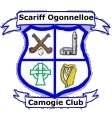
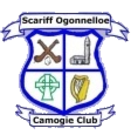
Making all font changes rem based (that aren't relative size values) - index and clubs html pages done. Some margin and padding when warrented.I'm also taking out or coupling together css.

diff --git a/assets/css/style.css b/assets/css/style.css
@@ -28,40 +28,41 @@ h1, h2, h3, h4, h5, h6 {
 header {
     background-color: rgb(255, 193, 37);
     display: flex;
-    justify-content: space-between
+    justify-content: space-between;
+    line-height: 4.68rem;
 }
 
-header a, footer a {
+header a, 
+footer a {
     text-decoration: none;
 }
 
-header a, a:visited, a:hover, a:active {
+header a, 
+a:visited, 
+a:hover, 
+a:active {
     color: inherit;
 }
 
 #logo {
     align-self: flex-start;
     font-family: Celtic;
-    font-size: 60px;
-    margin-left: 20px;
+    font-size: 3.75rem;
+    padding-left: 1.25rem;
 }
 
 /* navigation links */
 
 #menu {
     font-size: 110%;
-    letter-spacing: 4px;
-    margin-right: 20px;
+    letter-spacing: 0.25rem;
+    padding-right: 20px;
 }
 
 #menu li {
     list-style-type: none;
-    margin-right: 10px;
+    padding-right: 10px;
     display: inline-block;
-}
-
-#menu, #logo {
-    line-height: 75px;
 }
 
 #menu a:hover {
@@ -75,14 +76,14 @@ header a, a:visited, a:hover, a:active {
 /* hero image */
 
 #hero-outer {
-    height: 400px;
-    width: 100%;
+    min-height: 25rem;
+    max-width: 100%;
     overflow: hidden;
 }
 
 #hero-image {
-    height: 400px;
-    width: 100%;
+    min-height: 25rem;
+    max-width: 100%;
     background: url("../images/hero.jpg") no-repeat center;
     background-size: cover;
 }
@@ -99,46 +100,32 @@ header a, a:visited, a:hover, a:active {
     justify-content: center;
 }
 
-.newsletter-div h1 {
+.heading-1-body {
+    font-size: 2.5rem;
     text-align: center;
-    padding-top: 0.5em;
-}
-
-.newsletter-div p,
-.newsletter-div form {
-    padding: 1em;
-    text-align: center;
-    margin: auto;
-}
-
-#intro-heading {
-    font-size: 40px;
+    padding: 2rem 0;
 }
 
 #newsletter-signup {
+    padding: 2rem;
     text-align: center;
-    padding-bottom: 20px;
-}
-
-#newsletter-signup label {
-    font-size: larger;
+    margin: auto;
 }
 
 #newsletter-signup input {
     padding: 0.375rem 0.75rem;
     border-radius: 0.25rem;
-    transition: border-color .15s ease-in-out,box-shadow .15s ease-in-out;
     margin: 0;
     font-family: inherit;
-    font-size: x-large;
+    font-size: 1.5rem;
 }
 
 #newsletter-signup button {
-    font-size: x-large;
+    font-size: 1.5rem;
     border-radius: 5px;
     border: none;
     background-color: rgb(255, 193, 37);
-    padding: 10px;
+    padding: 0.6rem;
     margin: 0.5em;
 }
 
@@ -155,7 +142,6 @@ header a, a:visited, a:hover, a:active {
 #map-container {
     display: flex; 
     width: 100%; 
-    height: 100%; 
     flex-direction: column; 
     overflow: hidden;
 }
@@ -163,7 +149,7 @@ header a, a:visited, a:hover, a:active {
 #google-maps-homepage {
     margin: 0; 
     padding: 0;
-    min-height: 25em;
+    min-height: 25rem;
     border: none;
 }
 
@@ -175,7 +161,6 @@ header a, a:visited, a:hover, a:active {
 
 .center-of-container {
     width: 100%;
-    border-radius: 15px;
     align-self: center;
 }
 
@@ -187,13 +172,10 @@ header a, a:visited, a:hover, a:active {
 
 /* Clubs page */
 
-#training-title {
-    padding-top: 1em;
-}
-
-.training-card > * {
-    padding: 1em;
-    
+.heading-2-body {
+    font-size: 2rem;
+    text-align: center;
+    padding-bottom: 2rem;
 }
 
 .main-info-left {
@@ -214,7 +196,7 @@ header a, a:visited, a:hover, a:active {
 }
 
 .club-contact-list li {
-    padding: 0.5em 0;
+    padding: 0.4em 0;
 }
 
 .club-contact-list li a {
@@ -222,8 +204,23 @@ header a, a:visited, a:hover, a:active {
     color: inherit;
 }
 
-tr td:first-child {
-    padding-right: 30px;
+/* https://stackoverflow.com/questions/2573544/how-can-i-select-all-children-of-an-element-except-the-last-child/2573566 */
+.flex-item {
+    width: 50%;
+    margin: auto;
+    display: flex;
+    padding: 1em;
+    flex-direction: column;
+    align-items: center;
+    flex-wrap: wrap;
+}
+
+tbody tr:first-child {
+    text-decoration: underline;
+}
+
+tbody tr:not(:first-of-type) td:first-child {
+    padding-right: 1.8rem;
     font-style: italic;
 }
 
@@ -233,20 +230,8 @@ thead {
 
 .team-crest {
     margin: auto;
-    padding: 10px;
-    height: 135px;
 }
 
-.team-header {
-    padding: 1.2em;
-}
-
-.flex-item {
-    display: flex;
-    padding: 1em;
-    flex-direction: column;
-    justify-content: center;
-}
 
 .newsletter-div-clubs-page {
     background-color: #D2D5DD;
@@ -372,7 +357,10 @@ thead {
     display: inline;
 }
 
-footer a, a:visited, a:hover, a:active {
+footer a, 
+a:visited, 
+a:hover, 
+a:active {
     color: inherit;
 }
 
@@ -390,7 +378,7 @@ footer a, a:visited, a:hover, a:active {
 
 /* media queries */
 
-@media screen and (max-width: 410px) {
+/* @media screen and (max-width: 410px) {
     #logo {
         font-size: 55px;
     }
@@ -441,10 +429,10 @@ footer a, a:visited, a:hover, a:active {
     #contact-form {
         height: 77vh;
     }
-}
+} */
 
 /* iPad Pro and similar */
-@media screen and (min-width: 1000px) and (min-height: 920px) {
+/* @media screen and (min-width: 1000px) and (min-height: 920px) {
     #contact-form {
         height: 81vh;
         width: 50vw;
@@ -484,10 +472,10 @@ footer a, a:visited, a:hover, a:active {
         padding-bottom: 1em;
     }
 
-}
+} */
 
   /* for tablet screen sizes */
-@media screen and (max-width: 768px) {
+/* @media screen and (max-width: 768px) {
     #contact-form {
         width: 80%;
     }
@@ -505,4 +493,4 @@ footer a, a:visited, a:hover, a:active {
         flex-wrap: wrap;
     }
     
-}
+} */

diff --git a/clubs.html b/clubs.html
@@ -31,12 +31,12 @@
         </nav>
     </header>
     <div class="container">
-        <h1 class="container-for-section" id="training-title">Training Schedule</h1>
-        <section class="center-of-container training-card">
-            <h2 class="container-for-section team-header">Camogie</h2>
+        <h1 class="container-for-section heading-1-body">Training Schedule</h1>
+        <section class="center-of-container">
+            <h2 class="container-for-section heading-2-body">Camogie</h2>
             <div class="container-for-section team-info">
                 <div class="flex-item main-info-left">
-                    <img class="team-crest" src="assets/images/camogie-crest.png" alt="">
+                    <img class="team-crest" src="assets/images/camogie-crest-min.png" alt="">
                 </div>
                 <div class="flex-item main-info-right">
                     <h3>Contact Info:</h3>
@@ -145,7 +145,7 @@
             </div>
         </section>
 
-        <div class="container-for-section newsletter-div newsletter-div-clubs-page">
+        <section class="container-for-section newsletter-div newsletter-div-clubs-page">
             <form id="newsletter-signup" action="" method="post">
                 <label for="email">Sign up to our newsletter:</label>
                 <span>
@@ -153,13 +153,13 @@
                     <button type="submit">Sign Up</button>
                 </span>
             </form>
-        </div>
+        </section>
 
         <section class="center-of-container training-card">
-            <h2 class="container-for-section team-header">Hurling</h2>
+            <h2 class="container-for-section heading-2-body">Hurling</h2>
             <div class="container-for-section team-info">
                 <div class="flex-item main-info-left">
-                    <img class="team-crest" src="assets/images/hurling-crest.png" alt="">
+                    <img class="team-crest" src="assets/images/hurling-crest-min.png" alt="">
                 </div>
                 <div class="flex-item main-info-right">
                     <h3>Contact Info:</h3>

diff --git a/index.html b/index.html
@@ -41,7 +41,7 @@
         <article class="center-of-container">
             <div class="container-for-section newsletter-div">
                 <!-- Content from: https://heritage.clareheritage.org/places/reading-your-local-landscape/killaloe-our-local-landscape/some-human-footprints-around-the-gap-of-ogonnelloe-ballyloughnane#:~:text=The%20name%20'Ogonnelloe'%20comes%20from,landlords%20of%20most%20of%20Ogonnelloe. -->
-                <h1 id="intro-heading">Newsletter</h1>
+                <h1 class="heading-1-body">Newsletter</h1>
                 <p id="intro-paragraph">We now have a GAA newsletter. Find out what's going on in club, when your matches are, and changes to training times direct to your inbox.</p>
 
                 <form id="newsletter-signup" action="" method="post">
